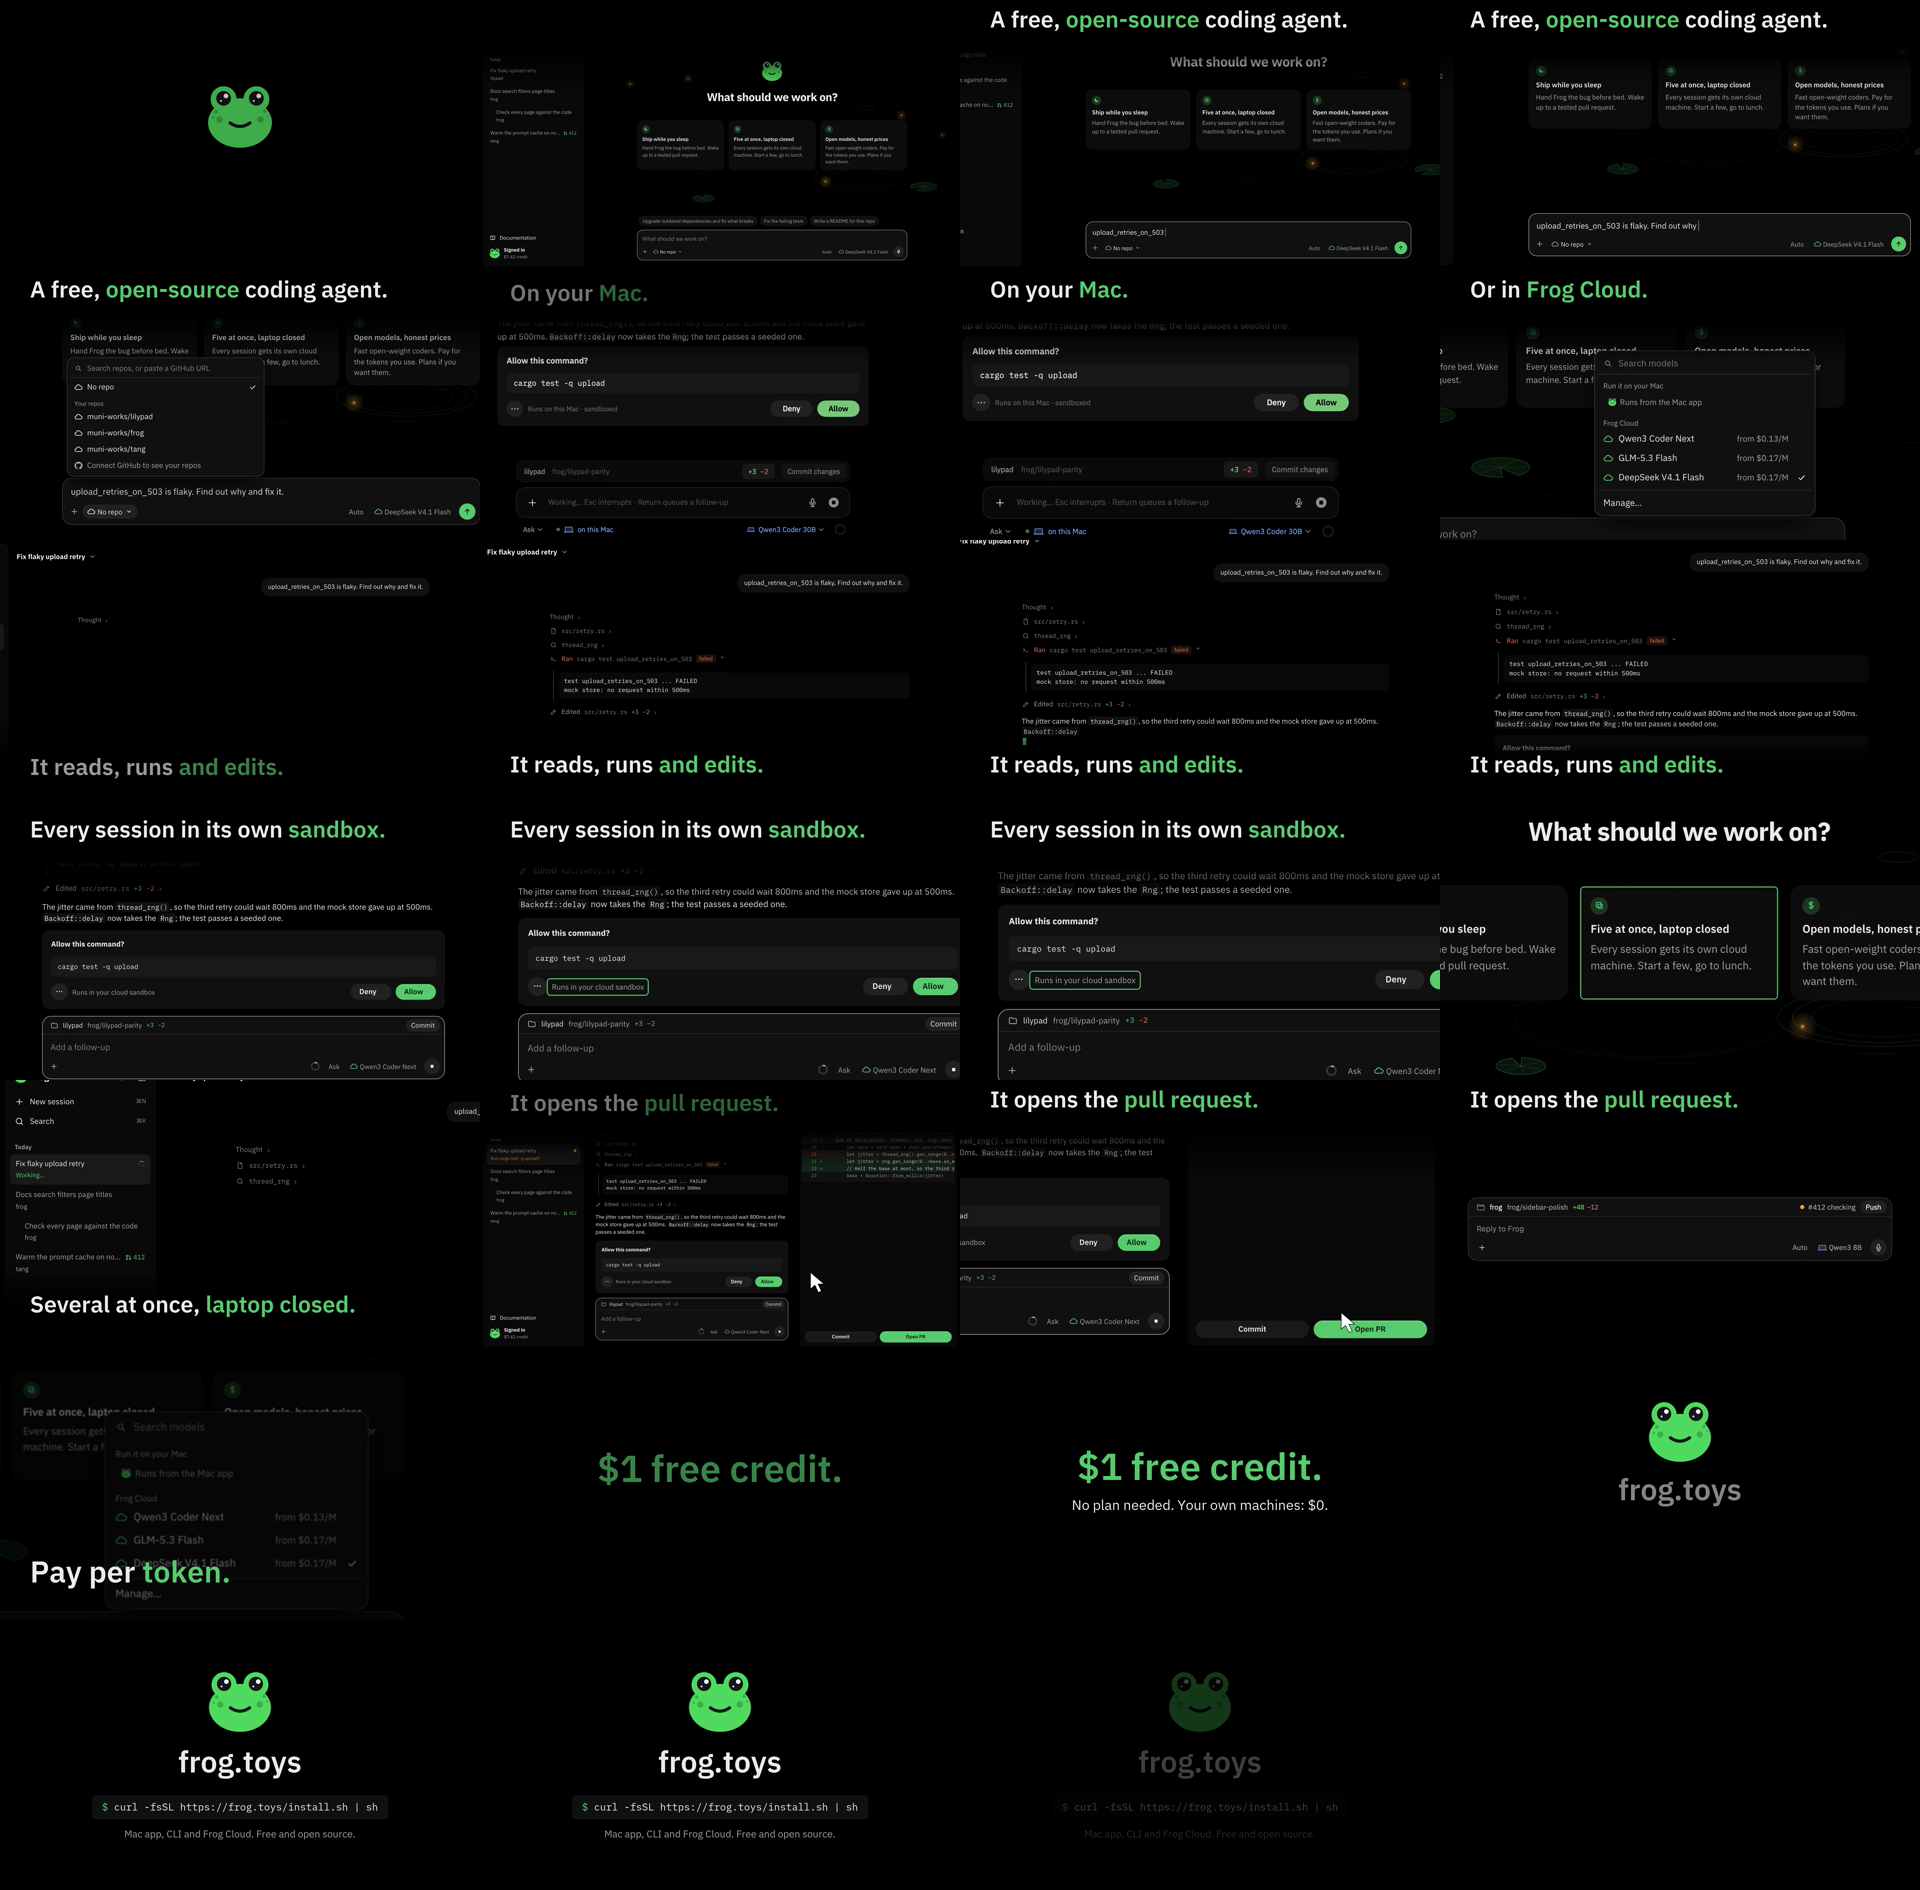
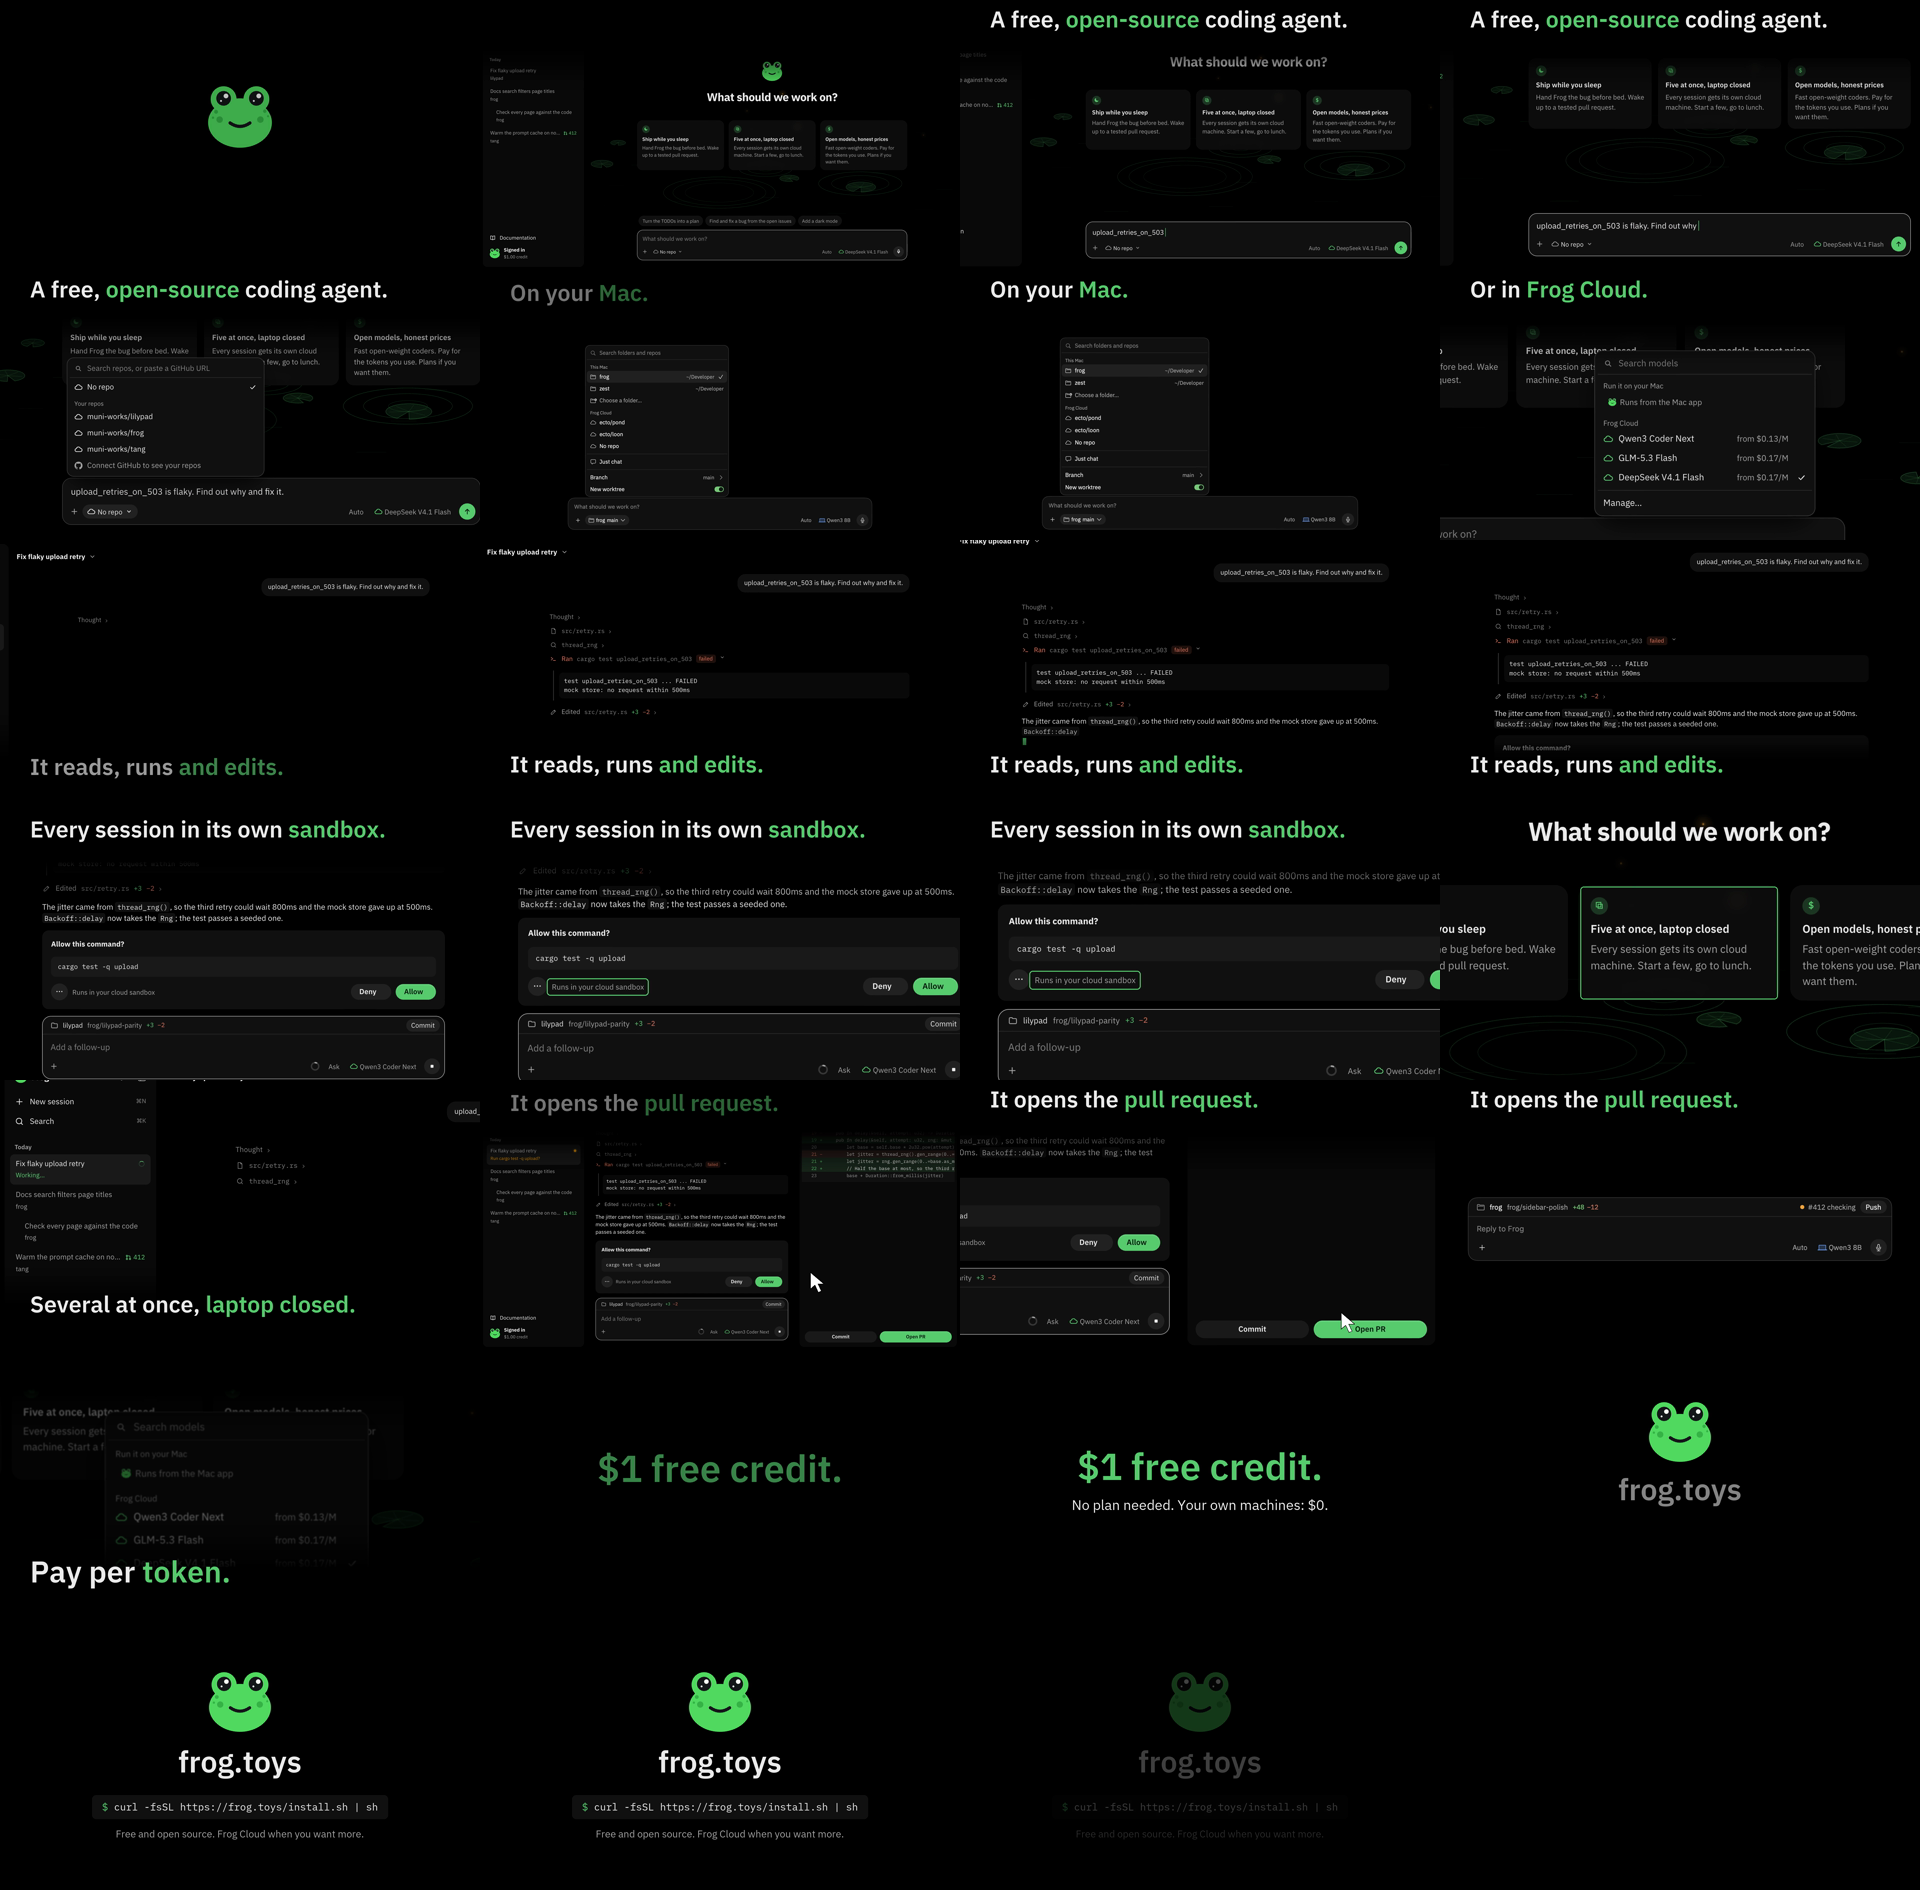
video: redesigned Mac shot, honest end line, $1 credit, aac headroom
"On your Mac." now shows the redesigned composer's where menu instead
of the pre-redesign parity window. The end line no longer reads as if
Frog Cloud were free. The capture account shows the $1 sign-up credit.
The wav peaks at -2 dBFS so the aac encode stays under -1 dBTP.

diff --git a/video/hype-reel/comp.py b/video/hype-reel/comp.py
@@ -164,11 +164,19 @@ def s_type(t, lt):
     words(img, t, B(5), [("A free, ", False), ("open-source", True), (" coding agent.", False)], where="top")
     return img
 
+@lru_cache(1)
+def mac_menu():
+    """the Mac composer's where menu (This Mac, then Frog Cloud) on a black margin, so the
+    words above clear it."""
+    m = load("docs/design/composer/mac-where-menu-dark.png")
+    c = Image.new("RGB", (2300, 1500), CANVAS); c.paste(m, (382, 380))
+    return c
+
 def s_mac(t, lt):
-    src = load("docs/design/parity/mac-dark.png")  # the Mac app, a model running on this Mac
-    z = lerp(1.32, 1.45, seg(lt, 0, 4 * BEAT)) * punch(t, B(CUT["mac"]))
-    img, cam = view(src, 1380, 1080, z)
-    img = scrim(img, "top", 400)
+    src = mac_menu()
+    z = lerp(1.0, 1.06, seg(lt, 0, 4 * BEAT)) * punch(t, B(CUT["mac"]))
+    img, cam = view(src, 1150, 1500, z)
+    img = scrim(img, "top", 300)
     words(img, t, B(CUT["mac"]) + 0.05, [("On your ", False), ("Mac.", True)], where="top")
     return img
 
@@ -222,7 +230,7 @@ def s_pr(t, lt):
         k = ease(seg(t, B(CUT["pr"] + 5.5), B(CUT["pr"] + 6.2)))
         s = lerp(1.14, 1.24, seg(t, B(CUT["pr"] + 5.5), B(CUT["price"])))
         paste_center(img, g.resize((int(g.width * s), int(g.height * s)), Image.LANCZOS), W / 2, H / 2 + 40, k)
-        words(img, t, B(CUT["pr"] + 5.5), [("It opens the ", False), ("pull request.", True)], where="top")
+        words(img, t, t0 + 0.05, [("It opens the ", False), ("pull request.", True)], where="top")
         return img
     src = web("inspector", 0)
     k = ease(seg(t, t0 + BEAT, B(CUT["pr"] + 4)))
@@ -238,7 +246,7 @@ def s_pr(t, lt):
 def s_price(t, lt):
     src = web("models", 1)
     img, cam = view(src, 1880, 920, 2.2)
-    img = dim(img.filter(ImageFilter.GaussianBlur(2)), 0.55)
+    img = scrim(scrim(dim(img.filter(ImageFilter.GaussianBlur(2)), 0.55), "bottom", 380), "top", 300)
     words(img, t, B(CUT["price"]) + 0.05, [("Pay per ", False), ("token.", True)], where="bottom", size=120, sub=None)
     words(img, t, B(CUT["price"] + 2), [("At cost, ", False), ("plus 10%.", True)], where="top", size=64)
     return img
@@ -269,7 +277,7 @@ def s_end(t, lt):
         d.rounded_rectangle([bx0, by0, W - bx0, by0 + 96], radius=16, fill=tuple(int(c * k3) for c in CARD))
         d.text((bx0 + 40, by0 + 62), "$ ", font=f, fill=tuple(int(c * k3) for c in FROG), anchor="ls")
         d.text((bx0 + 40 + d.textlength("$ ", font=f), by0 + 62), line, font=f, fill=tuple(int(c * k3) for c in FG), anchor="ls")
-        d.text((W / 2, by0 + 170), "Mac app, CLI and Frog Cloud. Free and open source.", font=sans(40, False), fill=tuple(int(c * k3) for c in MUTED), anchor="ms")
+        d.text((W / 2, by0 + 170), "Free and open source. Frog Cloud when you want more.", font=sans(40, False), fill=tuple(int(c * k3) for c in MUTED), anchor="ms")
     fo = seg(t, DUR - 1.0, DUR)
     return dim(img, fo) if fo > 0 else img
 

diff --git a/video/hype-reel/music.py b/video/hype-reel/music.py
@@ -141,11 +141,11 @@ add(bass(33, DUR - B(END)) * np.exp(-np.arange(int((DUR - B(END)) * SR)) / SR * 
 # a little stereo room: a 23 ms slap on the right, 31 ms on the left
 for ch, ms in ((0, 31), (1, 23)):
     d = int(ms / 1000 * SR); mix[d:, ch] += 0.18 * mix[:-d, 1 - ch]
-# fades, then normalise to -1 dBFS peak with a soft clip
+# fades, then normalise to -2 dBFS peak with a soft clip (headroom for the aac encode)
 fade_in = int(0.05 * SR); mix[:fade_in] *= np.linspace(0, 1, fade_in)[:, None]
 fo = int(2.0 * SR); mix[-fo:] *= np.linspace(1, 0, fo)[:, None] ** 1.5
 mix = np.tanh(mix * 1.3)
-mix *= 10 ** (-1 / 20) / np.max(np.abs(mix))
+mix *= 10 ** (-2 / 20) / np.max(np.abs(mix))
 with wave.open(sys.argv[1], "wb") as w:
     w.setnchannels(2); w.setsampwidth(2); w.setframerate(SR)
     w.writeframes((mix * 32767).astype("<i2").tobytes())

diff --git a/video/hype-reel/README.md b/video/hype-reel/README.md
@@ -33,15 +33,16 @@ vite dev against it (port 5211) and `capture/capture.mjs`, which drives the app 
 (its own throwaway profile; nothing opens a window or takes the keyboard) and writes
 `footage/<shot>/NNNN.png` at 2560x1440. Needs `npm ci` in `apps/web` and Google Chrome.
 
-- The gateway serves an account (no name, $7.42 credit), the pricing page's three Frog Cloud
+- The gateway serves an account (no name, the $1.00 sign-up credit), the pricing page's three Frog Cloud
   models, three repos and four sessions. `s_live` plays the parity fixture
   (`docs/design/parity/fixture.jsonl`, "Fix flaky upload retry") one step per frame, up to its ask
-  card; replies stream three words a step. Steps are counted, not timed, so recaptures match.
+  card; replies stream three words a step. Steps are counted, not timed, so the turn's frames come out the same; the new-session screen's
+  suggestion chips are random per load, so those differ.
 - Shots: `type` (the prompt typed a character a frame, the where menu, lilypad picked), `stream`
   (the live turn), `inspector` (Changes, Commit, Open PR), `models` (the model menu with prices),
   `docs` (captured, not used yet). `run.sh probe` writes two stills for checking selectors.
-- Mac footage is the checked-in offscreen snapshots, not a capture: `docs/design/parity/mac-dark.png`
-  (`docs/design/parity/capture.sh`) and `docs/design/composer/mac-git-pr-dark.png`. Re-run those
+- Mac footage is the checked-in offscreen snapshots, not a capture: `docs/design/composer/mac-where-menu-dark.png`
+  and `mac-git-pr-dark.png` (`ComposerSnapshotTests`, see `docs/design/composer/`). Re-run those
   harnesses to refresh them; they build their own copy of the app.
 - The mark is `apps/web/public/frog-mark.svg`, rasterized by `run.sh`.
 
@@ -65,7 +66,7 @@ vite dev against it (port 5211) and `capture/capture.mjs`, which drives the app 
 |---|---|---|---|---|
 | 0–4 | 0.0–2.0 s | the mark lands, "Frog" | Frog | `apps/web/public/frog-mark.svg` |
 | 4–16 | 2.0–8.0 s | web new-session screen: the prompt is typed, the where menu picks `muni-works/lilypad`; slow push-in | A free, open-source coding agent. | `README.md:5` ("A free, open-source coding agent") |
-| 16–20 | 8.0–10.0 s | drop 1. Mac app: the ask card says "Runs on this Mac · sandboxed", the model is Qwen3 Coder 30B "on this Mac" | On your Mac. | `README.md:29` (local models run on this machine), `site/index.html` "Every model, and where it runs" |
+| 16–20 | 8.0–10.0 s | drop 1. Mac composer's where menu: This Mac (frog, zest), then Frog Cloud; the model is Qwen3 8B on this Mac | On your Mac. | `README.md:29` (local models run on this machine), `site/index.html` "Every model, and where it runs" |
 | 20–24 | 10.0–12.0 s | web model menu: Frog Cloud's models, "from $0.13/M" | Or in Frog Cloud. | `README.md:7`, `docs/app/models/frog-cloud.md:1` |
 | 24–36 | 12.0–18.0 s | the live turn streams: thought, read, search, a failing test, the edit, the reply | It reads, runs and edits. | `README.md:35` ("frog reads the code, runs commands and edits files") |
 | 36–44 | 18.0–22.0 s | break. Push in on the ask card; a ring around "Runs in your cloud sandbox" | Every session in its own sandbox. | `docs/app/models/frog-cloud.md:10` ("every session runs in Frog Cloud: the model, and a sandbox with a copy of your repo") |
@@ -75,7 +76,7 @@ vite dev against it (port 5211) and `capture/capture.mjs`, which drives the app 
 | 57.5–60 | 28.75–30.0 s | Mac composer: `frog/sidebar-polish`, +48 −12, "#412 checking", Push | It opens the pull request. | as above |
 | 60–64 | 30.0–32.0 s | the model menu, blurred | Pay per token. / At cost, plus 10%. | `site/pricing.html` ("pay per token"; models served through OpenRouter "billed at what each request cost there plus 10%"), `docs/releases/v0.6.0.md` |
 | 64–68 | 32.0–34.0 s | type only | $1 free credit. / No plan needed. Your own machines: $0. | `site/pricing.html` ("$1 free credit when you sign up and connect GitHub", plans "Optional", "On your own machines: $0"), `docs/app/models/frog-cloud.md:5` |
-| 68–80 | 34.0–40.0 s | end card: the mark, frog.toys, the install line; fade out over the last second | frog.toys / `curl -fsSL https://frog.toys/install.sh \| sh` / Mac app, CLI and Frog Cloud. Free and open source. | `README.md:9`, `docs/releases/v0.6.2.md` (install) |
+| 68–80 | 34.0–40.0 s | end card: the mark, frog.toys, the install line; fade out over the last second | frog.toys / `curl -fsSL https://frog.toys/install.sh \| sh` / Free and open source. Frog Cloud when you want more. | `README.md:9`, `docs/releases/v0.6.2.md` (install) |
 
 Prices on screen ("from $0.13/M", "from $0.17/M") are the pricing page's static table
 (`site/pricing.html`), served by the capture gateway. The live page loads current prices from
@@ -88,4 +89,5 @@ through OpenRouter; Frog Cloud's own GPUs list their own prices.
 synthesized from sine, saw and noise with a fixed seed, so every render is the same wav. Intro
 (pad, pluck from beat 4, hats from beat 8, a riser into beat 16), drop 1 at beat 16, a half-time
 break at beat 36 under the sandbox beat, drop 2 at beat 44, a final hit at beat 68 with the tonic
-ringing out, 2 s fade. Measured: about −12.5 LUFS integrated, peak −1 dBFS. Not checked by ear.
+ringing out, 2 s fade. Measured on the encoded mp4: −13.4 LUFS integrated, true peak −1.0 dBFS
+(the wav is normalised to −2 dBFS for the aac encode's overshoot). Not checked by ear.
